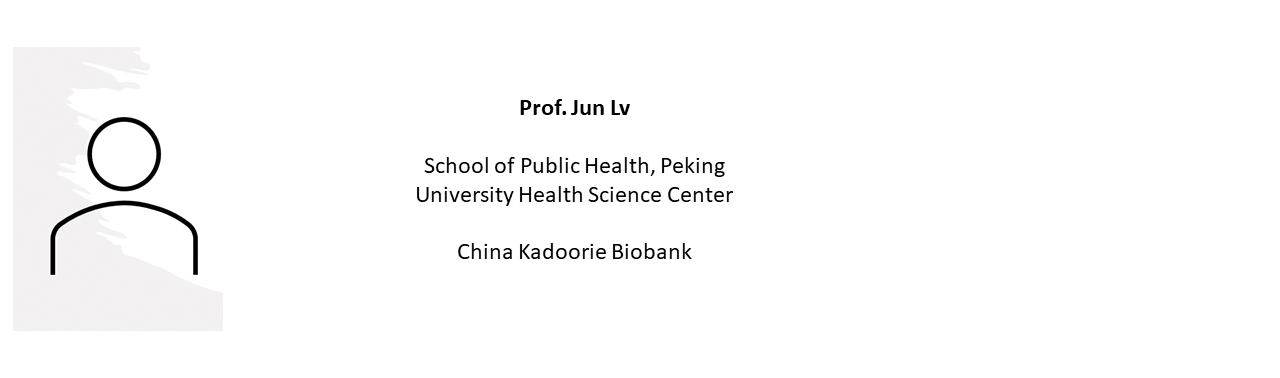
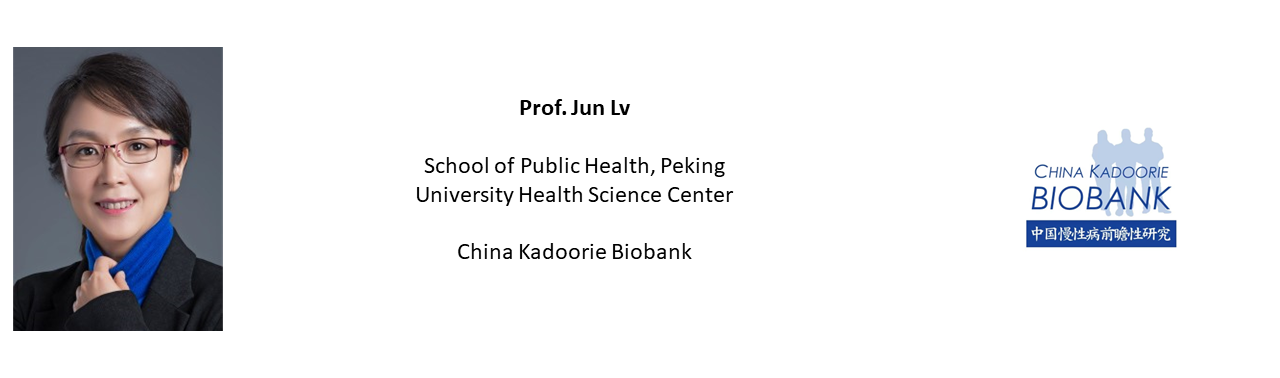
update collaboration network page

Changed region(s): [[0.0, 0.1164, 0.1875, 0.873], [0.7812, 0.3201, 0.9375, 0.6693]]

diff --git a/DEEP/site/Our_Network/index.html b/DEEP/site/Our_Network/index.html
@@ -881,6 +881,9 @@
 <a href="https://usmp.edu.pe/" target="_blank">
 <img src="https://github.com/hannah-e/DEEP_site/blob/gh-pages/assets/Sanchez_USMP.png?raw=true">
 </a>
+<a href="http://sph.pku.edu.cn/English/Faculty/Department_of_Epidemiology_and_Biostatistics1.htm" target="_blank">
+<img src="https://github.com/hannah-e/DEEP_site/blob/gh-pages/assets/Si_Peking.png?raw=true">
+</a>
 <a href="https://www.lshtm.ac.uk/aboutus/people/silver.matthew/" target="_blank">
 <img src="https://github.com/hannah-e/DEEP_site/blob/gh-pages/assets/Silver_MRCG.png?raw=true">
 </a>

diff --git a/DEEP/docs/Our_Network.md b/DEEP/docs/Our_Network.md
@@ -89,6 +89,9 @@ Our network includes 20 project partners and cohorts worldwide, bringing togethe
 <a href="https://usmp.edu.pe/" target="_blank">
 <img src="https://github.com/hannah-e/DEEP_site/blob/gh-pages/assets/Sanchez_USMP.png?raw=true">
 </a>
+<a href="http://sph.pku.edu.cn/English/Faculty/Department_of_Epidemiology_and_Biostatistics1.htm" target="_blank">
+<img src="https://github.com/hannah-e/DEEP_site/blob/gh-pages/assets/Si_Peking.png?raw=true">
+</a>
 <a href="https://www.lshtm.ac.uk/aboutus/people/silver.matthew/" target="_blank">
 <img src="https://github.com/hannah-e/DEEP_site/blob/gh-pages/assets/Silver_MRCG.png?raw=true">
 </a>
